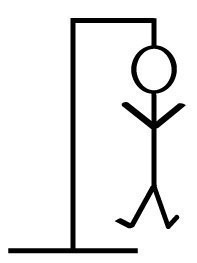
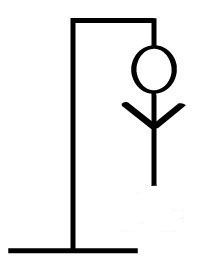
change pics start js

Changed region(s): [[0.5787, 0.6996, 0.9137, 0.8821]]

diff --git a/index.html b/index.html
@@ -18,21 +18,21 @@
     
     <body>
 
-            <div class="container">
+        <div class="container">
 
                 <!-- Header Content-->
 
                     <div class="row head">
     
                         <div class="col-xs-12 banner">
-                            <p class="name">Hangman</p>
+                            <p class="name">Hangman Double-ZZ's</p>
                         </div>
     
                     </div>
 
                 <!--Main Body Content -->
 
-                <div class="row background">
+            <div class="row background">
 
                     <!-- Top Row Explination -->
 
@@ -50,26 +50,81 @@
 
                         <!-- Remaining Lives Box -->
 
-                        <div class="col-md-2 col-md-offset-1 smallbox lives">
-                            <div class="row">
-                                <div class="col-md-10 col-md-offset-1">
-                                    <p class="smallboxtext">Remaining Lives</p>
-                                </div>
-                                <div class="col-md-4 col-md-offset-4">
-                                    <p class="smallboxnumbers">0</p>
+                            <div class="col-md-2 col-md-offset-1 smallbox guess">
+                                <div class="row">
+                                    <div class="col-md-10 col-md-offset-1">
+                                    <p class="smallboxtext">Remaining Guesses</p>
+                                    </div>
+                                    <div class="col-md-4 col-md-offset-4">
+                                    <p class="smallboxnumbers">7</p>
+                                    </div>
                                 </div>
                             </div>
-                        </div>
 
                         <!-- Hangman Picture Box -->
 
                         <div class="col-md-4 col-md-offset-1">
+
+                            <!-- 
                                 <img class="img-thumbnail img-responsive" id="image" src="assets/images/Hangman_Main.jpeg" alt="Hangman Picture" />
+                            -->
+
+                                    <!-- Group of 8 -->
+                                        <!-- Row 1 -->
+                                    <div class="row hangmanpics">
+
+                                        <div class="col-md-6">
+                                                <img class="img-thumbnail img-responsive image" src="assets/images/Hangman_0.jpeg" alt="Hangman Picture" />
+                                        </div>
+
+                                        <div class="col-md-6">
+                                                <img class="img-thumbnail img-responsive image" src="assets/images/Hangman_1.jpeg" alt="Hangman Picture" />
+                                        </div>
+                                    </div>
+
+                                    <!-- Row 2 -->
+                                    <div class="row hangmanpics">
+
+                                            <div class="col-md-6">
+                                                <img class="img-thumbnail img-responsive image" src="assets/images/Hangman_2.jpeg" alt="Hangman Picture" />
+                                            </div>
+                                        
+                                            <div class="col-md-6">
+                                                <img class="img-thumbnail img-responsive image" src="assets/images/Hangman_3.jpeg" alt="Hangman Picture" />
+                                            </div>
+                                    </div>
+
+                                    <!-- Row 3 -->
+                                    <div class="row hangmanpics">
+
+                                            <div class="col-md-6">
+                                                <img class="img-thumbnail img-responsive image" src="assets/images/Hangman_4.jpeg" alt="Hangman Picture" />
+                                            </div>
+                                        
+                                            <div class="col-md-6">
+                                                <img class="img-thumbnail img-responsive image" src="assets/images/Hangman_5.jpeg" alt="Hangman Picture" />
+                                            </div>
+                                    </div>
+
+                                    <!-- Row 4 -->
+                                    <div class="row hangmanpics">
+
+                                            <div class="col-md-6">
+                                                <img class="img-thumbnail img-responsive image" src="assets/images/Hangman_6.jpeg" alt="Hangman Picture" />
+                                            </div>
+                                        
+                                            <div class="col-md-6">
+                                                <img class="img-thumbnail img-responsive image" src="assets/images/Hangman_7.jpeg" alt="Hangman Picture" />
+                                            </div>
+                                     </div>
+
+                        <!-- Hangman Pic Box -->
                         </div>
 
+                
                         <!-- Number of Wins Box -->
 
-                            <div class="col-md-2 col-md-offset-1 smallbox lives">
+                            <div class="col-md-2 col-md-offset-1 smallbox wins">
                                 <div class="row">
                                     <div class="col-md-10 col-md-offset-1">
                                         <p class="smallboxtext">Number of Wins</p>
@@ -79,10 +134,8 @@
                                     </div>
                                 </div>
                             </div>
-
-                    </div>
-
-
+                
+                 
 
                     <!-- Word Row with Letter Boxes -->
 
@@ -95,12 +148,14 @@
                         <div class="col-md-1 letterbox">E</div>
 
                     </div>
+                <!-- Main Box -->
+                </div>
 
                     <!-- End Game -->
 
 
-
-                </div>
+            <!-- Background -->
+            </div>
 
                 <!-- Footer Content -->
 
@@ -113,12 +168,14 @@
                                 </div>
                 
                         </div> 
-                
-                </div>
+            
+                    </div>
                     
-                            
-            </div>
-                
+        <!-- Container-->
+        </div>
+     
+        <script src="assets/javascript/game.js"></script>     
+
     </body>
                     
 </html>

diff --git a/assets/css/style.css b/assets/css/style.css
@@ -33,7 +33,7 @@
 .background {
     width: 100%;
     margin: 0 auto;
-    height: 550px;
+    height: auto;
     background-image: url("../images/bright_squares.png");
     background-size: 100% auto;
 }
@@ -75,13 +75,14 @@
 }
  /* Hangman Image */
 
-#image {
-    height: 340px;
-    width:340px;
+.image {
+    height: 100px;
+    width: 150px;
     padding: 5px;
     background-color: yellow;
-    margin-top: 15px; 
-    margin-bottom: 15px;
+    margin-top: 5px; 
+    margin-bottom: 5px;
+
 }
 
 
@@ -98,6 +99,7 @@
     height: 75px;
     width: 75px;
     margin-right: 3px;
+    margin-bottom: 5px;
     color: #2D2A2A;
     background-color: salmon;
     border: 2px solid #666;

diff --git a/assets/javascript/game.js b/assets/javascript/game.js
@@ -1,0 +1,20 @@
+alert("Connected");
+
+var words = ["pizza", "whizz", "frizz", "fuzzy", "jazzy", "abuzz", "mezzo", "scuzz", "dizzy", "fizzy"];
+var randomnum;
+var dblzz;
+var i;
+var guess = 7;
+var wins = 0;
+
+randomnum = (Math.floor((Math.random() *10) +1) - 1);
+console.log(randomnum);
+
+dblzz = words[randomnum];
+console.log(dblzz);
+
+console.log(dblzz[0]);
+console.log(dblzz[1]);
+console.log(dblzz[2]);
+console.log(dblzz[3]);
+console.log(dblzz[4]);
